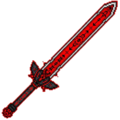
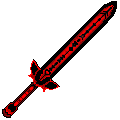
Rediseño de las armas para melee2

Changed region(s): [[0.0, 0.0, 1.0, 1.0], [0.55, 0.425, 0.575, 0.45]]

diff --git a/Projectiles/Modes/AmeBladeBase.cs b/Projectiles/Modes/AmeBladeBase.cs
@@ -77,7 +77,17 @@ namespace Ame.Projectiles.Modes
 
 		// Dirección de la punta de la espada
 		private Vector2 BladeDirection => (Projectile.rotation - MathHelper.ToRadians(45f)).ToRotationVector2();
-		private Vector2 BladeTip => Projectile.Center + BladeDirection * (40f * Projectile.scale);
+		// Distancia del centro a la punta = mitad de la diagonal del sprite
+		private float BladeTipDistance
+		{
+			get
+			{
+				Texture2D tex = TextureAssets.Projectile[Projectile.type].Value;
+				// Diagonal / 2 para sprites cuadrados rotados 45°
+				return tex.Width * 0.5f * 1.2f; // 1.2 para que la punta salga un poco más allá del sprite
+			}
+		}
+		private Vector2 BladeTip => Projectile.Center + BladeDirection * (BladeTipDistance * Projectile.scale);
 
 		public override void AI()
 		{
@@ -569,10 +579,10 @@ namespace Ame.Projectiles.Modes
 			}
 			else
 			{
-				// Negro con tinte rojo mínimo → negro puro
+				// Negro: rojo oscuro visible → rojo muy profundo
 				baseColor = Color.Lerp(
-					new Color(40, 4, 2),
-					new Color(10, 1, 0),
+					new Color(140, 15, 8),
+					new Color(60, 5, 2),
 					progress
 				);
 			}
